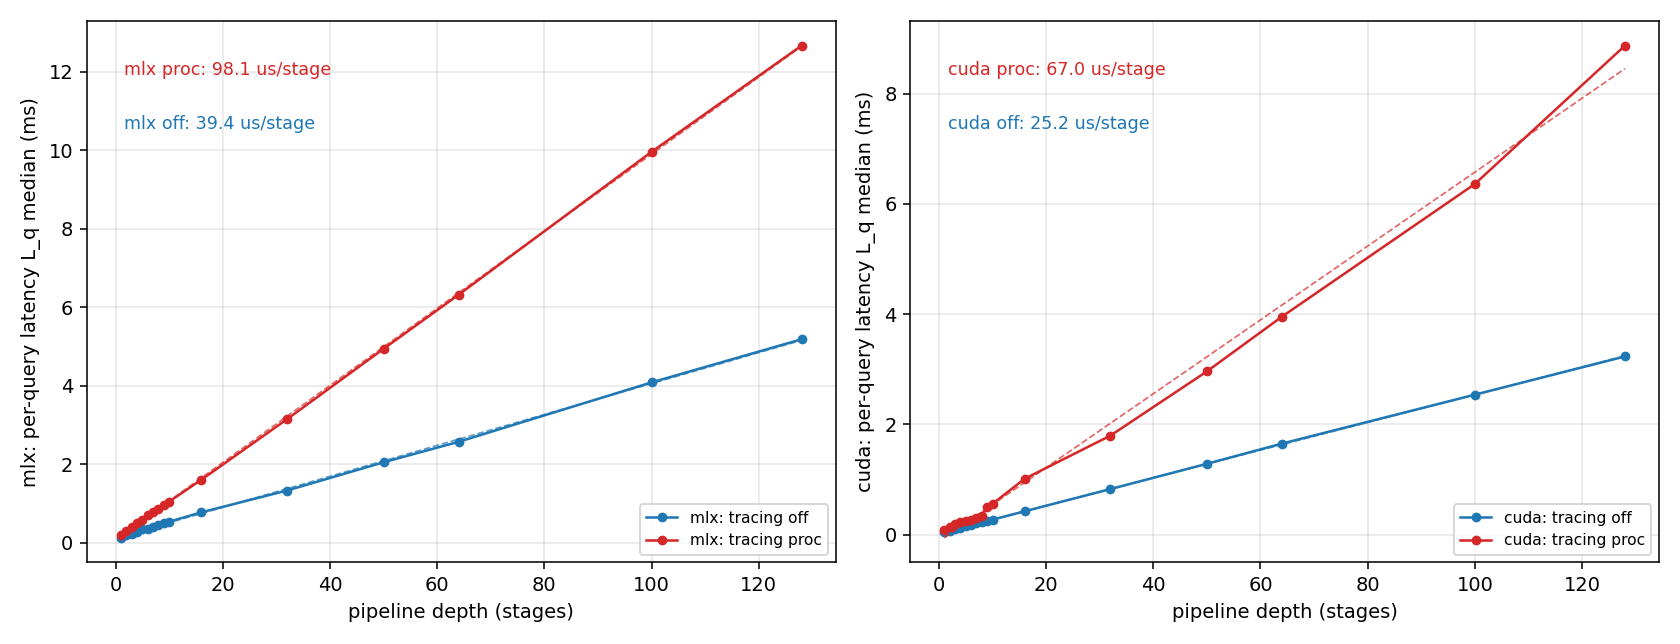
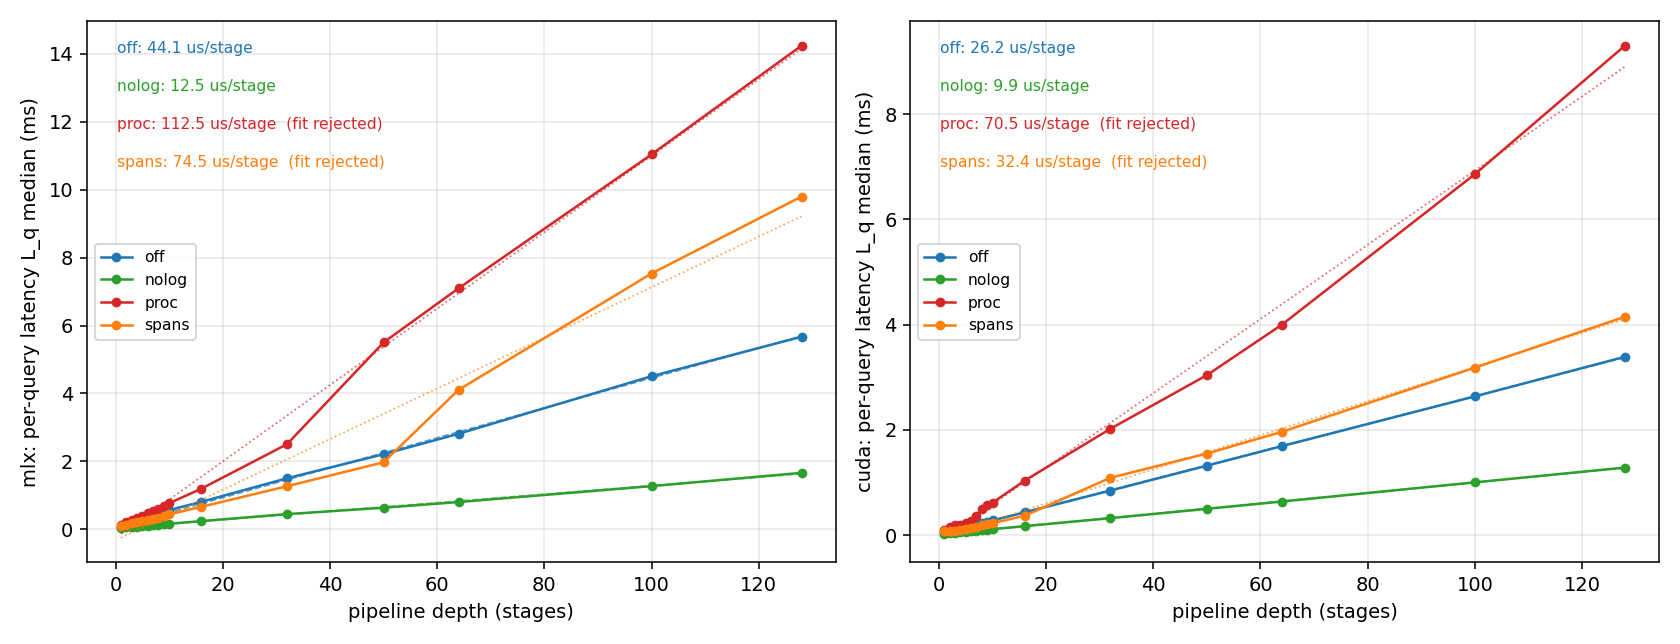
E1: instrument-decomposition figure, and select on arm in the depth figure
Figure 1 still selected on trace, which now pools off with nolog and proc
with spans -- one line drawn through two arms that differ by the instrument.
It selects on arm now, and draws a rejected fit dotted rather than dashed so
the eye does not read it as a marginal per-stage cost.

The new figure is what the four-arm collection is for. Left: O(d)=L_q/depth
per arm, where the plateau IS the marginal per-stage cost, so off and nolog
settling at different plateaus is the result. Right: that gap plotted
directly against the independently measured cost of the two CSV rows each
stage writes (7.7 us/row, timed standalone) -- a reference the data was never
fitted to.

diff --git a/evaluation/overheads/framework_overhead/analyze_e1.py b/evaluation/overheads/framework_overhead/analyze_e1.py
@@ -589,6 +589,80 @@ def latex_payload_table(runs, device):
 # ---------------------------------------------------------------------------
 # Figures
 # ---------------------------------------------------------------------------
+ARM_STYLE = {"off": "tab:blue", "nolog": "tab:green",
+             "proc": "tab:red", "spans": "tab:orange"}
+
+
+def _od_curve(runs, arm):
+    """[(depth, O(d) median us)] for one arm, sorted by depth."""
+    out = []
+    for d in sorted({r.meta["depth"] for r in runs
+                     if r.meta["size"] == 0 and r.meta["mode"] == "ref"}):
+        sel = select(runs, depth=d, size=0, mode="ref", arm=arm)
+        lat = pool_latency_by_run(sel)
+        if lat:
+            out.append((d, summarize([[v / d for v in run] for run in lat],
+                                     NS_PER_US)["median"]))
+    return out
+
+
+def make_instrument_figure(per_device, fig_dir):
+    """The figure the four-arm collection exists to produce.
+
+    Left column: O(d) = L_q/depth per arm. The framework's marginal per-stage
+    cost is where this flattens, so `off` and `nolog` flattening to different
+    plateaus IS the result -- the gap between them is our own logger, not the
+    framework.
+
+    Right column: that gap plotted directly, against the independently measured
+    cost of the two CSV rows each stage writes (7.7 us/row, timed in isolation).
+    If the decomposition is real, the measured gap should sit on that line
+    without having been fitted to it.
+    """
+    import matplotlib
+    matplotlib.use("Agg")
+    import matplotlib.pyplot as plt
+
+    devs = list(per_device)
+    fig, axes = plt.subplots(len(devs), 2, figsize=(12, 4.4 * len(devs)),
+                             squeeze=False)
+    for row, dev in enumerate(devs):
+        runs = per_device[dev]
+        curves = {a: _od_curve(runs, a) for a in ARM_STYLE}
+
+        ax = axes[row][0]
+        for arm, color in ARM_STYLE.items():
+            if curves[arm]:
+                xs, ys = zip(*curves[arm])
+                ax.plot(xs, ys, "o-", color=color, ms=4, lw=1.4, label=arm)
+        ax.set_xscale("log", base=2)
+        ax.set_xlabel("pipeline depth (stages)")
+        ax.set_ylabel(f"{dev}: per-stage cost O(d) = L_q/depth (us)")
+        ax.grid(alpha=0.3, which="both"); ax.legend(fontsize=8)
+
+        ax = axes[row][1]
+        base = dict(curves["nolog"])
+        for arm, color, lbl in (("off", "tab:blue", "CSV instrument (off - nolog)"),
+                                ("spans", "tab:orange", "span instrument (spans - nolog)")):
+            pts = [(d, v - base[d]) for d, v in curves[arm] if d in base]
+            if pts:
+                xs, ys = zip(*pts)
+                ax.plot(xs, ys, "o-", color=color, ms=4, lw=1.4, label=lbl)
+        # 2 CSV rows per stage per query x 7.7 us/row, measured standalone.
+        ax.axhline(2 * 7.7, color="k", ls="--", lw=1.0, alpha=0.6,
+                   label="2 log rows x 7.7 us (measured separately)")
+        ax.axhline(0, color="k", lw=0.6, alpha=0.4)
+        ax.set_xscale("log", base=2)
+        ax.set_xlabel("pipeline depth (stages)")
+        ax.set_ylabel(f"{dev}: instrument cost per stage (us)")
+        ax.grid(alpha=0.3, which="both"); ax.legend(fontsize=8)
+
+    fig.tight_layout()
+    out = os.path.join(fig_dir, "e1_instrument_decomposition.png")
+    fig.savefig(out, dpi=140); plt.close(fig)
+    return out
+
+
 def make_figures(per_device, fig_dir):
     import matplotlib
     matplotlib.use("Agg")
@@ -598,25 +672,32 @@ def make_figures(per_device, fig_dir):
     fig, axes = plt.subplots(1, 2, figsize=(12, 4.6))
     for ax, dev in zip(axes, per_device):
         runs = per_device[dev]
-        for trace, color, lbl in [(0, "tab:blue", "off"), (1, "tab:red", "proc")]:
+        # Select on ARM, not `trace` — trace=0 now pools off with nolog, which
+        # would draw one line through two arms that differ by the instrument.
+        for i, (arm, color) in enumerate(ARM_STYLE.items()):
             depths, meds = [], []
             for d in sorted({r.meta["depth"] for r in runs
                              if r.meta["size"] == 0 and r.meta["mode"] == "ref"}):
                 s = summarize(pool_latency_by_run(
-                    select(runs, depth=d, size=0, mode="ref", trace=trace)), NS_PER_MS)
+                    select(runs, depth=d, size=0, mode="ref", arm=arm)), NS_PER_MS)
                 if s["n"]:
                     depths.append(d); meds.append(s["median"])
-            if depths:
-                ax.plot(depths, meds, "o-", color=color, ms=4, lw=1.3,
-                        label=f"{dev}: tracing {lbl}")
-                lq_ns = [m * NS_PER_MS for m in meds]
-                slope, icpt = ols_slope(depths, lq_ns)
-                xs = [min(depths), max(depths)]
-                ax.plot(xs, [(slope * x + icpt) / NS_PER_MS for x in xs],
-                        "--", color=color, lw=0.9, alpha=0.7)
-                ax.annotate(f"{dev} {lbl}: {slope / NS_PER_US:.1f} us/stage",
-                            xy=(0.05, 0.9 if trace else 0.8), xycoords="axes fraction",
-                            color=color, fontsize=9)
+            if not depths:
+                continue
+            ax.plot(depths, meds, "o-", color=color, ms=4, lw=1.3, label=arm)
+            lq_ns = [m * NS_PER_MS for m in meds]
+            slope, icpt = ols_slope(depths, lq_ns)
+            r2 = ols_r2(depths, lq_ns, slope, icpt)
+            xs = [min(depths), max(depths)]
+            # Dash the fit only where it is admissible; a rejected fit is drawn
+            # dotted so the eye does not read it as a marginal per-stage cost.
+            rejected = bool(fit_verdict(icpt, r2))
+            ax.plot(xs, [(slope * x + icpt) / NS_PER_MS for x in xs],
+                    ":" if rejected else "--", color=color, lw=0.9, alpha=0.7)
+            ax.annotate(f"{arm}: {slope / NS_PER_US:.1f} us/stage"
+                        + ("  (fit rejected)" if rejected else ""),
+                        xy=(0.04, 0.94 - 0.07 * i), xycoords="axes fraction",
+                        color=color, fontsize=8)
         # No titles: the caption carries that in the paper. Device identity is in
         # the legend and the fitted-slope annotation instead.
         ax.set_xlabel("pipeline depth (stages)")
@@ -706,7 +787,8 @@ def main():
 
     if per_device:
         f1, f2 = make_figures(per_device, args.fig_dir)
-        print(f"\n**Figures:** `{f1}`, `{f2}`")
+        f3 = make_instrument_figure(per_device, args.fig_dir)
+        print(f"\n**Figures:** `{f1}`, `{f2}`, `{f3}`")
 
 
 if __name__ == "__main__":
